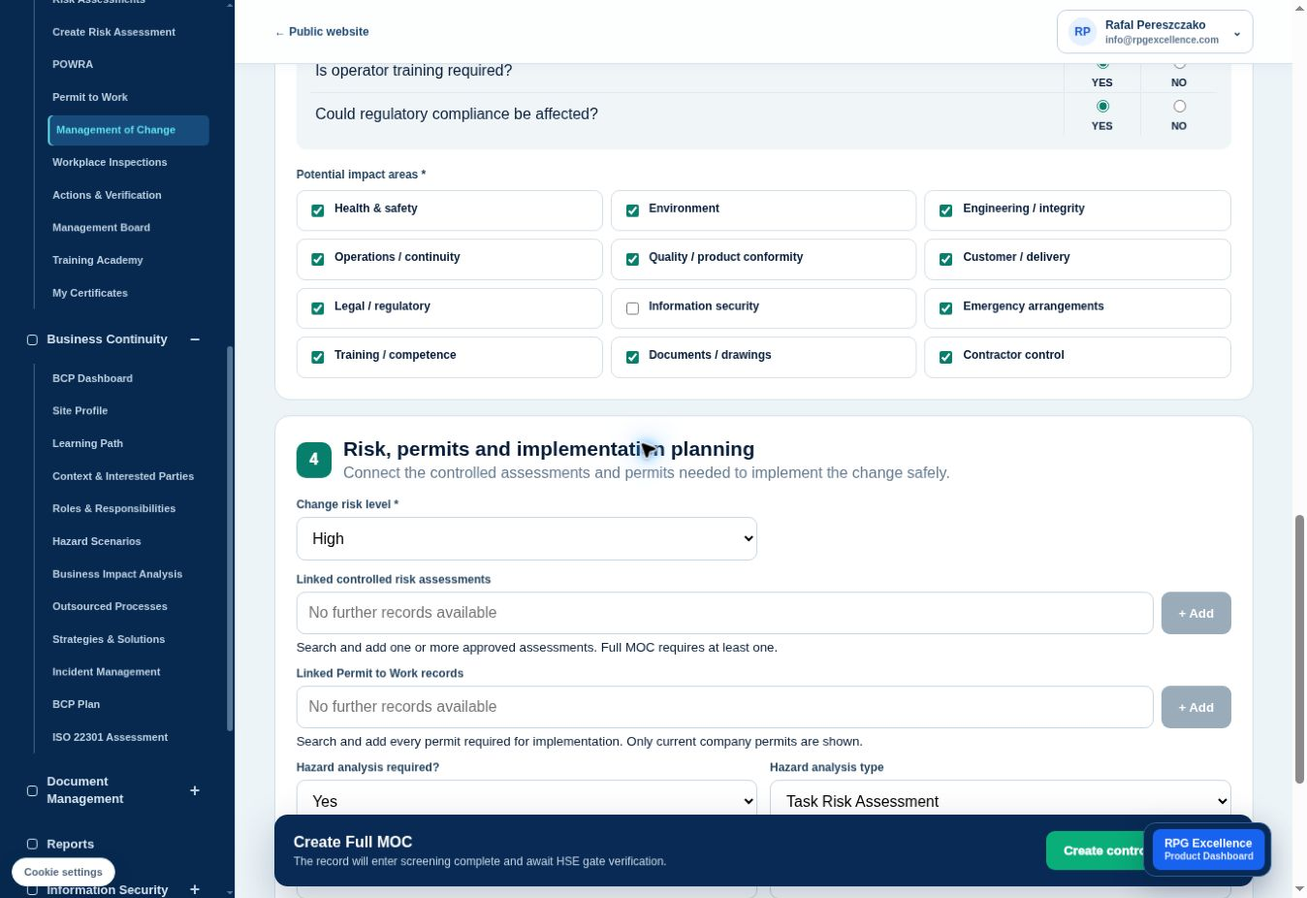
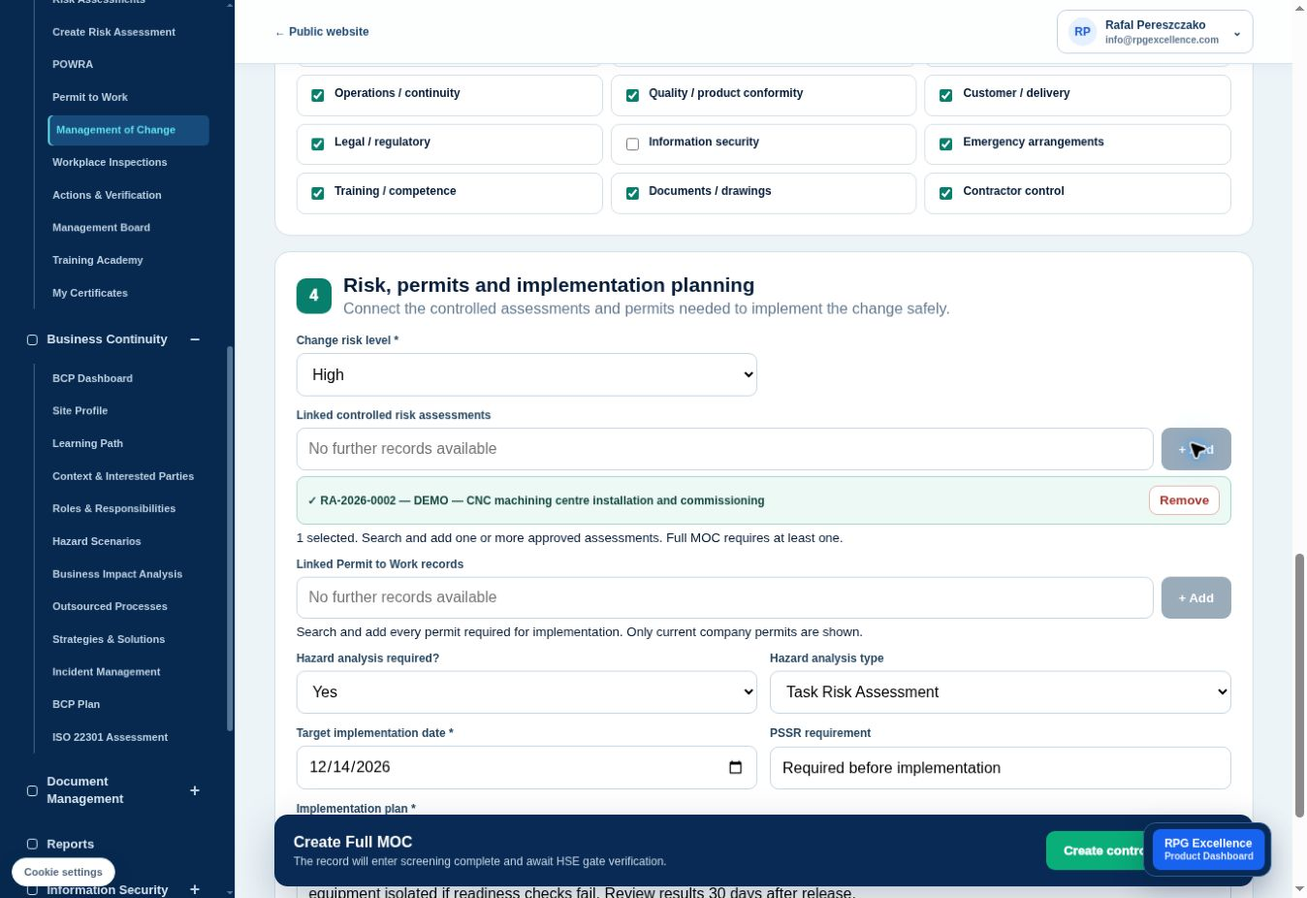
Publish risk assessment workflow with native original and revised PDFs

diff --git a/app/[locale]/how-it-works/risk-assessments/page.js b/app/[locale]/how-it-works/risk-assessments/page.js
@@ -1,0 +1,23 @@
+import Link from 'next/link';
+import {notFound} from 'next/navigation';
+import PageShell from '../../../../components/PageShell';
+import {locales} from '../../../../lib/i18n';
+import RiskSteps from './RiskSteps';
+import styles from './page.module.css';
+export const metadata={title:'How it works — Risk Assessments | RPG Excellence',description:'Explore real RPG risk assessment screens: scope, hazards, controls, actions, independent review, saved revisions and actual platform-generated PDFs.',alternates:{canonical:'/en/how-it-works/risk-assessments'}};
+const asset='/how-it-works/risk-assessments/';
+export default async function RiskAssessmentWalkthrough({params}){
+ const {locale}=await params;if(!locales.includes(locale))notFound();
+ return <PageShell locale={locale}><main className={styles.page}>
+ <header className={styles.hero}><div><Link className={styles.back} href={`/${locale}/how-it-works`}>How it works / Risk Assessments</Link><p className={styles.eyebrow}>PLATFORM INSIGHT · WORKPLACE RISK</p><h1>Understand the exposure.<br/>Keep the response connected.</h1><p className={styles.lead}>Define the work, evaluate significant hazards and assign the controls. Follow the saved record through review, revision and the PDF produced by the platform.</p><aside className={styles.insight}><p className={styles.eyebrow}>THE BUSINESS CONNECTION</p><h2>From a risk entry to accountable work.</h2><p>Bring the people exposed, control decisions and outstanding actions into the same assessment, so the next decision has a traceable basis.</p><div><span><strong>Identify</strong>The work and exposure</span><span><strong>Control</strong>Decisions and ownership</span><span><strong>Retain</strong>Versions and outputs</span></div></aside><div className={styles.actions}><Link className={styles.primary} href="/portal/health-safety/risk-assessment/new">New risk assessment →</Link><Link href="/portal/health-safety/risk-assessment">Open register →</Link></div><p className={styles.small}>Sign-in and eligible company access required.</p></div><div className={styles.product}><div className={styles.productBar}><span>RPG EXCELLENCE / RISK ASSESSMENTS</span><strong>Actual saved record</strong></div><img src={asset+'saved-v2.jpg'} width="1348" height="926" alt="Actual saved version 2 assessment showing the fictional changed delivery route and controlled PDF option" fetchPriority="high"/><div className={styles.productCaption}><p className={styles.eyebrow}>FICTIONAL EXAMPLE / REAL WORKSPACE</p><h2>A CNC installation.<br/>A changed delivery route.</h2><p>See the original saved assessment, the revised context, the review decision and both native RPG PDF exports.</p><a href="#pdf-outputs">Compare the actual PDFs ↓</a></div></div></header>
+ <nav className={styles.jump} aria-label="Risk assessment walkthrough sections"><a href="#starting-point">01 / Starting point</a><a href="#inside-workflow">02 / Saved workflow</a><a href="#pdf-outputs">03 / Original &amp; updated PDFs</a></nav>
+ <section id="starting-point" className={styles.section} aria-labelledby="start-title"><p className={styles.eyebrow}>01 / FIND YOUR WAY IN</p><h2 id="start-title">Start with the work.<br/>Return to its controlled record.</h2><p className={styles.intro}>The register brings status, residual ratings, open actions and review dates together. Its counts here come from fictional demonstration records.</p><div className={styles.startGrid}><figure className={styles.screen}><a href={asset+'register.jpg'} target="_blank" rel="noreferrer" aria-label="Enlarge risk assessment register"><img src={asset+'register.jpg'} width="1348" height="926" alt="Actual register showing approved version 2 and superseded version 1" loading="lazy"/></a><figcaption>Real register after the demonstration revision. Version 2 is Approved; version 1 is Superseded. Open actions remain visible.</figcaption></figure><div className={styles.entrySteps}><article><span>01</span><div><h3>Open the H&amp;S dashboard</h3><p>Use Risk Assessments in the platform navigation.</p><Link href="/portal/health-safety">H&amp;S dashboard →</Link></div></article><article><span>02</span><div><h3>Find a saved assessment</h3><p>Search the register or use its Active, Elevated risk, Reviews due, Approved and Archived views.</p><Link href="/portal/health-safety/risk-assessment">Risk register →</Link></div></article><article><span>03</span><div><h3>Create a separate assessment</h3><p>Define the title, task, site, department, assessor and people affected before recording hazards.</p><Link href="/portal/health-safety/risk-assessment/new">New assessment →</Link></div></article></div></div></section>
+ <section id="inside-workflow" className={styles.section} aria-labelledby="steps-title"><p className={styles.eyebrow}>02 / INSIDE THE WORKSPACE</p><h2 id="steps-title">Save the assessment.<br/>Review the change.</h2><p className={styles.intro}>Select a card to see where the risk decision, review and revision are recorded.</p><RiskSteps/></section>
+ <section id="pdf-outputs" className={styles.section} aria-labelledby="pdf-title"><p className={styles.eyebrow}>03 / ACTUAL RPG-GENERATED OUTPUTS</p><h2 id="pdf-title">The saved version.<br/>The updated PDF.</h2><p className={styles.intro}>These are the original, unmodified files downloaded using Controlled PDF in RPG Excellence. The page previews render their first pages; the downloads contain all three pages.</p><div className={styles.startGrid}>
+ <article><p className={styles.eyebrow}>BEFORE / VERSION 1</p><h3>RA-2026-0001 · Version 1</h3><figure className={styles.screen}><a href={asset+'RA-2026-0001-v1-RPG.pdf'} target="_blank" rel="noreferrer" aria-label="Open original RPG version 1 PDF"><img src={asset+'pdf-v1-preview.png'} width="1600" height="1132" alt="First page of the actual RPG-generated version 1 PDF" loading="lazy"/></a><figcaption>Exported after the demonstration approval and before creating the revision. It shows Approved as the status at export; this record is now Superseded.</figcaption></figure><div className={styles.actions}><a className={styles.primary} href={asset+'RA-2026-0001-v1-RPG.pdf'} download>Download original PDF →</a></div></article>
+ <article><p className={styles.eyebrow}>AFTER / VERSION 2</p><h3>RA-2026-0002 · Version 2</h3><figure className={styles.screen}><a href={asset+'RA-2026-0002-v2-RPG.pdf'} target="_blank" rel="noreferrer" aria-label="Open updated RPG version 2 PDF"><img src={asset+'pdf-v2-preview.png'} width="1600" height="1132" alt="First page of the actual updated RPG version 2 PDF with west loading bay scope and SSOW Rev B" loading="lazy"/></a><figcaption>Exported after saving and approving version 2. The revised task scope, consultation proposal and SSOW Rev B reference appear in the native output.</figcaption></figure><div className={styles.actions}><a className={styles.primary} href={asset+'RA-2026-0002-v2-RPG.pdf'} download>Download updated PDF →</a></div></article></div>
+ <div className={styles.gates}><article><span>THE RECORDED CHANGE</span><h3>A different delivery route</h3><p>Version 2 adds the fictional west loading bay route and temporary segregation, updates the consultation proposal and changes the safe-system reference to Rev B.</p></article><article><span>THE CONTROLLED HANDOVER</span><h3>Save, review, then export</h3><p>The revision starts as a draft. Save the changes, submit for review and record approval before the Controlled PDF becomes available. Updating the record does not rewrite a PDF already downloaded.</p></article><article><span>THE PRACTICAL VALUE</span><h3>Check the issue you are using</h3><p>The PDF includes a reference, version, approval information, risk evaluation and action plan. Compare those details with the current register before issuing or relying on a copy.</p></article></div>
+ <aside className={styles.callout}><strong>Native export, with its current layout.</strong><p>The examples preserve the platform output, including its fixed-size cells. Some long text is shortened in those cells; read the full saved record for the complete entries. An approved status in this fictional example is not evidence that any real controls were implemented.</p></aside></section>
+ <footer className={styles.finish}><p className={styles.eyebrow}>KEEP THE DECISION AND THE EVIDENCE TOGETHER</p><h2>Make the assessment useful<br/>after it has been saved.</h2><div className={styles.actions}><Link className={styles.primary} href="/portal/health-safety/risk-assessment/new">New assessment →</Link><Link href="/portal/health-safety/risk-assessment">Risk register →</Link></div><p className={styles.small}>Real RPG Excellence screens and native PDF exports captured on 18 November 2026. All example work, hazards, ratings, proposed controls and approvals are demonstration data. Three actions remain open; no actual installation, verified control effectiveness or operational release is claimed.</p></footer>
+ </main></PageShell>;
+}

diff --git a/app/[locale]/how-it-works/risk-assessments/page.module.css b/app/[locale]/how-it-works/risk-assessments/page.module.css
@@ -1,0 +1,1 @@
+.page{--navy:#0b274b;--teal:#008575;--muted:#526b85;color:var(--navy);background:#fff}.page a{color:inherit}.hero,.section,.jump,.finish{max-width:1380px;margin:auto;padding:64px 30px}.hero{display:grid;grid-template-columns:1fr 1fr;gap:48px;align-items:center;padding-top:48px;padding-bottom:52px}.back{font-size:13px;color:var(--muted)!important;text-decoration:none}.eyebrow{color:var(--teal);font-size:11px;font-weight:900;letter-spacing:.16em;margin:24px 0 14px}.hero h1{font-size:clamp(42px,4.3vw,66px);line-height:1.04;letter-spacing:-.045em;margin:16px 0 22px;font-weight:900}.lead{font-size:19px;line-height:1.65;color:var(--muted)}.insight{background:linear-gradient(120deg,#eaf7f5,#f4f9ff);padding:22px 24px;border:1px solid #d8e9ed;border-left:3px solid var(--teal);border-radius:12px;margin:26px 0}.insight .eyebrow{margin:0 0 10px}.insight h2{font-size:25px;letter-spacing:-.02em;margin:0 0 12px}.insight p{font-size:15px;line-height:1.65;margin:0;color:var(--muted)}.insight>div{display:grid;grid-template-columns:repeat(3,1fr);gap:12px;margin-top:18px}.insight span{font-size:12px;color:var(--muted);line-height:1.6}.insight strong{display:block;color:var(--navy);font-size:13px}.actions{display:flex;flex-wrap:wrap;align-items:center;gap:20px;margin-top:24px}.actions a,.entrySteps a{font-weight:800;font-size:14px;text-decoration:none}.primary{background:var(--teal);color:#fff!important;padding:14px 20px;border-radius:8px;display:inline-flex}.small{color:var(--muted);font-size:13px;line-height:1.75}.product{border:1px solid #d9e4ec;border-radius:18px;overflow:hidden;box-shadow:0 22px 65px #10375714;background:white}.productBar{display:flex;justify-content:space-between;gap:12px;padding:14px 18px;background:var(--navy);color:white;font-size:10px;letter-spacing:.06em}.productBar strong{color:#9fe4d9}.product>img{width:100%;height:340px;object-fit:cover;object-position:center;display:block}.productCaption{padding:6px 25px 26px}.productCaption h2{font-size:29px;line-height:1.2;letter-spacing:-.03em;margin:12px 0}.productCaption p:not(.eyebrow){color:var(--muted);font-size:15px;line-height:1.7}.productCaption a{color:var(--teal);font-size:14px;font-weight:800}.jump{padding:20px 30px;display:flex;gap:32px;flex-wrap:wrap;border-block:1px solid #e1eaf0}.jump a{font-size:13px;font-weight:800;text-decoration:none}.section{scroll-margin-top:110px;border-bottom:1px solid #e2eaf1}.section>.eyebrow{margin-top:0}.section h2{font-size:clamp(30px,3.4vw,43px);line-height:1.15;letter-spacing:-.035em;margin:12px 0 18px}.intro{max-width:780px;color:var(--muted);line-height:1.8;font-size:17px}.startGrid{display:grid;grid-template-columns:1.2fr 1fr;gap:40px;align-items:center;margin-top:30px}.screen{margin:0;min-width:0;background:#f5f9fc;border:1px solid #d9e5ee;border-radius:12px;overflow:hidden}.screen a{display:block;position:relative}.screen img{display:block;width:100%;height:auto}.screen a>span{position:absolute;bottom:10px;right:10px;background:#0b274be8;color:white;padding:8px 12px;border-radius:6px;font-size:11px;font-weight:800}.screen figcaption{padding:14px 18px;font-size:12px;line-height:1.7;color:var(--muted)}.entrySteps article{display:flex;gap:20px;padding:20px 0;border-bottom:1px solid #e2eaf1}.entrySteps article>span{background:#e8f5f2;color:var(--teal);font-size:14px;font-weight:900;border-radius:50%;width:38px;height:38px;display:grid;place-items:center;flex-shrink:0}.entrySteps h3{font-size:20px;margin:0 0 9px}.entrySteps p{font-size:15px;color:var(--muted);line-height:1.75;margin:0 0 10px}.entrySteps a{color:var(--teal)}.tabs{display:grid;grid-template-columns:repeat(5,1fr);gap:12px;margin:30px 0 18px}.tabs button{background:#f7fafc;border:1px solid #d8e4ee;border-radius:12px;text-align:left;padding:18px;cursor:pointer;color:var(--navy);font:inherit;transition:background .15s,transform .15s}.tabs button[aria-selected=true]{background:var(--navy);border-color:var(--navy);color:white;box-shadow:0 7px 18px #0b274b22}.tabs button:hover{transform:translateY(-2px)}.tabs span{font-size:11px;color:var(--teal);font-weight:900}.tabs button[aria-selected=true] span{color:#91dfce}.tabs strong{display:block;font-size:20px;margin:7px 0}.tabs small{font-size:11px}.panel{display:grid;grid-template-columns:.8fr 1.2fr;gap:34px;background:#f8fbfd;border:1px solid #dde7ef;border-radius:15px;padding:28px;align-items:start}.panel[hidden]{display:none}.panel .eyebrow{margin-top:0}.panel h3{font-size:30px;line-height:1.2;letter-spacing:-.025em;margin:12px 0 20px}.panel p{color:var(--muted);line-height:1.8;font-size:15px}.panel .small{font-size:12px}.panel .screen img{max-height:620px;object-fit:contain;object-position:top;background:#eaf2f7}.value{background:#e9f5f1;border-left:3px solid var(--teal);padding:18px;margin:24px 0;border-radius:0 8px 8px 0}.value strong{font-size:13px}.value p{font-size:14px;margin:8px 0 0}.controls{display:flex;align-items:center;justify-content:space-between;margin-top:20px;gap:10px}.controls button{font:inherit;font-size:13px;font-weight:800;cursor:pointer;padding:12px 18px;background:#fff;color:var(--navy);border:1px solid #cbdbe7;border-radius:8px}.controls span{font-size:12px;color:var(--muted)}.gates{display:grid;grid-template-columns:repeat(3,1fr);gap:20px;margin-top:32px}.gates article{border:1px solid #dce6ed;border-top:3px solid var(--teal);border-radius:12px;padding:25px}.gates article>span{font-size:10px;letter-spacing:.12em;font-weight:900;color:var(--teal)}.gates h3{font-size:23px;line-height:1.3;letter-spacing:-.02em;margin:17px 0}.gates p{color:var(--muted);font-size:15px;line-height:1.75}.gates strong{font-size:12px}.callout{background:#edf5fc;padding:24px;border-radius:12px;margin-top:25px}.callout p{color:var(--muted);line-height:1.8;font-size:15px;margin-bottom:0}.finish{max-width:none;text-align:center;background:var(--navy);color:white;padding:62px 30px}.finish .eyebrow{color:#8fe1d0}.finish h2{font-size:clamp(32px,3.5vw,46px);line-height:1.15;letter-spacing:-.03em}.finish .actions{justify-content:center}.finish .small{color:#bed0e1;max-width:900px;margin:28px auto 0}.page a:focus-visible,.page button:focus-visible{outline:3px solid #2673ff;outline-offset:4px}@media(max-width:1000px){.hero{gap:25px;padding-inline:22px}.hero h1{font-size:44px}.panel{grid-template-columns:1fr}.startGrid{grid-template-columns:1fr 1fr;gap:24px}.tabs button{padding:15px 10px}.gates{gap:12px}.gates article{padding:20px}}@media(max-width:720px){.hero,.section{padding:38px 20px}.hero,.startGrid,.gates{grid-template-columns:1fr}.hero h1{font-size:45px}.product>img{height:300px}.jump{padding:18px 20px;gap:14px 24px}.tabs{display:flex;overflow-x:auto;scroll-snap-type:x mandatory;padding:4px 0 12px}.tabs button{min-width:145px;scroll-snap-align:start}.panel{padding:20px;gap:18px}.panel h3{font-size:27px}.panel .screen img{max-height:580px}.gates{gap:18px}.controls button{padding:12px}.finish{padding:44px 20px}}

diff --git a/app/[locale]/how-it-works/risk-assessments/RiskSteps.js b/app/[locale]/how-it-works/risk-assessments/RiskSteps.js
@@ -1,0 +1,27 @@
+"use client";
+import { useRef, useState } from "react";
+import styles from "./page.module.css";
+
+const steps = [{"id": "scope", "label": "Define", "file": "saved-v1.jpg", "title": "Keep the assessment connected to the work.", "text": "Define the site, department, work area, assessor and people who may be harmed. Record task boundaries, consultation and supporting control references.", "value": "Make the work and the people affected clear before the risk decisions are read in isolation.", "detail": "The example covers delivery, installation, commissioning and trial machining. It is labelled DEMO and does not authorise real work.", "alt": "Actual saved assessment showing scope, ownership and location"}, {"id": "hazards", "label": "Evaluate", "file": "hazards.jpg", "title": "Connect hazards, controls and accountable actions.", "text": "For each significant hazard, record exposure and credible harm, existing controls, initial likelihood and severity, additional controls and the expected residual position. Assign action ownership and a target date.", "value": "Keep proposed risk reduction beside the work needed to achieve it.", "detail": "Three demonstration hazards cover lifting, electrical connection and trial machining. Expected residual ratings depend on proposed controls; the three actions remain open.", "alt": "Actual saved risk assessment with hazard and action counts"}, {"id": "approval", "label": "Review", "file": "approval-v2.jpg", "title": "Record the independent review decision.", "text": "Submit the completed assessment for review. Select an active company approver other than the assessor, record the review arrangements and retain the decision comments.", "value": "Distinguish completing assessment fields from a recorded approval decision.", "detail": "The nominated reviewer is far per. Approval comments expressly identify this as a fictional demonstration, with no actual control implementation or operational release.", "alt": "Actual saved version 2 approval record and review arrangements"}, {"id": "revision", "label": "Revise", "file": "revision-edit.jpg", "title": "When the task changes, create and save a revision.", "text": "From an approved assessment, choose Create new revision. Update the draft in the RPG form and save it, then submit it for review again.", "value": "Keep the changed basis visible rather than silently overwriting an approved version.", "detail": "This example changes the delivery route to the west loading bay and updates the consultation proposal and SSOW reference. The platform assigned reference RA-2026-0002 to version 2.", "alt": "Actual RPG edit form for the demonstration version 2"}, {"id": "saved", "label": "Export", "file": "saved-v2.jpg", "title": "Open the saved record and generate its PDF.", "text": "After revision approval, open Controlled PDF from the saved record. The platform generates the PDF from that version, including the revised scope and approval details.", "value": "Provide a portable output whose reference and version can be checked against the register.", "detail": "Both unmodified RPG exports are available below. Version 1 was downloaded before revision; version 2 was downloaded after its own approval. Existing downloaded files do not automatically change.", "alt": "Actual saved approved version 2 showing Controlled PDF and revised scope"}];
+
+export default function RiskSteps() {
+  const [active, setActive] = useState(0);
+  const refs = useRef([]);
+  const step = steps[active];
+  function select(index, focus = false) {
+    const next = (index + steps.length) % steps.length;
+    setActive(next);
+    if (focus) refs.current[next]?.focus();
+  }
+  function handleKey(event, index) {
+    const next = { ArrowRight: index + 1, ArrowLeft: index - 1, Home: 0, End: steps.length - 1 }[event.key];
+    if (next === undefined) return;
+    event.preventDefault();
+    select(next, true);
+  }
+  return <>
+    <div className={styles.tabs} role="tablist" aria-label="Explore the Risk Assessment workflow">{steps.map((item, index) => <button key={item.id} ref={node => { refs.current[index] = node; }} type="button" role="tab" id={`risk-tab-${item.id}`} aria-selected={active === index} aria-controls={`risk-panel-${item.id}`} tabIndex={active === index ? 0 : -1} onClick={() => select(index)} onKeyDown={event => handleKey(event, index)}><span>0{index + 1}</span><strong>{item.label}</strong><small>View platform screen</small></button>)}</div>
+    {steps.map((item, index) => <section key={item.id} role="tabpanel" id={`risk-panel-${item.id}`} aria-labelledby={`risk-tab-${item.id}`} hidden={active !== index} className={styles.panel}><div><p className={styles.eyebrow}>INSIDE THE WORKSPACE / 0{index + 1}</p><h3>{item.title}</h3><p>{item.text}</p><aside className={styles.value}><strong>Why it matters</strong><p>{item.value}</p></aside><p className={styles.small}>{item.detail}</p></div><figure className={styles.screen}><a href={`/how-it-works/risk-assessments/${item.file}`} target="_blank" rel="noreferrer" aria-label={`Enlarge ${item.label} screenshot`}><img src={`/how-it-works/risk-assessments/${item.file}`} alt={item.alt} width="1348" height={item.id === "review" ? "1628" : "928"} loading="lazy"/><span>View full screen ↗</span></a><figcaption>Actual RPG Excellence interface · fictional demonstration entries.</figcaption></figure></section>)}
+    <div className={styles.controls}><button type="button" onClick={() => select(active - 1)} aria-label="Previous workflow screen">← Previous</button><span aria-live="polite">0{active + 1} / 0{steps.length} · {step.label}</span><button type="button" onClick={() => select(active + 1)} aria-label="Next workflow screen">Next →</button></div>
+  </>;
+}

diff --git a/app/[locale]/how-it-works/management-of-change/ChangeSteps.js b/app/[locale]/how-it-works/management-of-change/ChangeSteps.js
@@ -5,9 +5,9 @@ import styles from "./page.module.css";
 const steps = [
   { id: "request", label: "Define", file: "moc-request.jpg", title: "Give the proposal a clear boundary.", text: "Describe the current and proposed state, choose the site and department, and identify the requestor and accountable owner. Record whether the change is temporary or permanent and identify the affected equipment.", value: "Agree what is changing and who coordinates the response before resources are committed.", detail: "Example: DEMO-CNC-002, a new CNC machining centre in Machining Cell 2. The description connects the production purpose with installation, document and training needs.", alt: "Actual new-change form filled with the fictional CNC installation scope and ownership" },
   { id: "screen", label: "Screen", file: "moc-screening.jpg", title: "Let the potential impact shape the review.", text: "Answer the screening questions against the proposed change. Any Yes answer requires the Full MOC pathway. Questions for the selected change type add detail, with impact areas covering the affected functions.", value: "Surface cross-functional consequences before the change is treated as a routine equipment purchase.", detail: "The CNC example uses Yes answers for potential safety, integrity, performance, quality, delivery and compliance effects. All-No screening follows MOC Lite; proportionate approval and close-out still apply.", alt: "Actual screening section requiring Full MOC and change-type questions for new equipment" },
-  { id: "plan", label: "Connect", file: "moc-planning.jpg", title: "Bring the supporting controls into the request.", text: "Set the change risk level, link approved controlled risk assessments and relevant Permit to Work records, and record hazard analysis and the implementation plan. Full MOC requires at least one approved assessment.", value: "Keep the proposal connected to the assessed work, responsibilities, preparation and contingency arrangements.", detail: "This screenshot is an unsubmitted example. The assessment link is empty because RA-2026-0001 has not yet received independent approval. A provisional High change rating is demonstration data, not an assessed operational conclusion.", alt: "Actual MOC planning section with a provisional High rating, assessment and permit links, and task risk analysis" },
+  { id: "plan", label: "Connect", file: "moc-planning.jpg", title: "Bring the supporting controls into the request.", text: "Set the change risk level, link approved controlled risk assessments and relevant Permit to Work records, and record hazard analysis and the implementation plan. Full MOC requires at least one approved assessment.", value: "Keep the proposal connected to the assessed work, responsibilities, preparation and contingency arrangements.", detail: "This filled request links approved demonstration assessment RA-2026-0002 Version 2. The change was then saved as MOC-2026-299EF4 and awaits HSE gate verification. The High rating is demonstration data, not an assessed operational conclusion.", alt: "Actual MOC planning section with a provisional High rating, assessment and permit links, and task risk analysis" },
   { id: "assess", label: "Assess", file: "risk-hazards.jpg", title: "Follow the risk into its own controlled record.", text: "The example assessment records delivery and positioning, electrical connection and trial-machining hazards. Each has an initial rating, proposed controls, an expected residual rating and an assigned action with a target date.", value: "Make the source of the risk decision and the outstanding work easier to trace.", detail: "RA-2026-0001 contains three illustrative hazards and three open actions. Expected residual ratings depend on the proposed controls; no implementation or verification is asserted.", alt: "Actual demonstration risk assessment showing three hazards, initial and residual ratings, and assigned actions" },
-  { id: "review", label: "Review", file: "risk-review.jpg", title: "Keep assessment and approval distinct.", text: "Submit the assessment for review, then use a competent approver other than the assessor. The review page shows readiness, outstanding actions and the controlled review arrangements.", value: "Keep an independent decision visible rather than treating a completed form as approval.", detail: "This example is In Review. No eligible independent approver was available when captured, so it has not been approved or linked to a saved Full MOC. The walkthrough does not bypass that requirement.", alt: "Actual assessment review screen showing In Review status, readiness checks and an independent approver requirement" },
+  { id: "review", label: "Review", file: "moc-saved.jpg", title: "Keep assessment and approval distinct.", text: "Submit the assessment for review, then use a competent approver other than the assessor. The review page shows readiness, outstanding actions and the controlled review arrangements.", value: "Keep an independent decision visible rather than treating a completed form as approval.", detail: "After the nominated reviewer approved the fictional assessment, the Full MOC was saved with its controlled link. MOC-2026-299EF4 remains at the HSE gate; functional approvals, PSSR and implementation have not been completed.", alt: "Actual saved Full MOC showing its HSE gate status and linked approved assessment" },
 ];
 
 export default function ChangeSteps() {

diff --git a/app/[locale]/how-it-works/management-of-change/page.js b/app/[locale]/how-it-works/management-of-change/page.js
@@ -40,6 +40,6 @@ export default async function ManagementOfChangeWalkthrough({ params }) {
       <article><span>03 / VERIFY</span><h3>Review the result before closure</h3><p>Record post-implementation observations, action verification decisions and closure comments. For the CNC example, compare cycle time, first-pass acceptance, downtime and operator feedback with the baseline.</p><strong>Business value</strong><p>Distinguish completing the change from demonstrating that it delivered the intended result.</p></article>
     </div><aside className={styles.callout}><strong>When circumstances change, revisit the basis.</strong><p>A different machine, location, contractor method or operating condition may change the assessment. Revisit the scope, controls and applicable approvals before proceeding; a saved request is not an authorisation to start work.</p></aside></section>
 
-    <footer className={styles.finish}><p className={styles.eyebrow}>START WITH THE CHANGE IN FRONT OF YOU</p><h2>Keep the proposal, risk<br/>and response connected.</h2><div className={styles.actions}><Link className={styles.primary} href="/portal/health-safety/moc/new">New change →</Link><Link href="/portal/health-safety/moc">MOC register →</Link><Link href="/portal/health-safety">H&amp;S dashboard →</Link></div><p className={styles.small}>Actual RPG Excellence screens captured on 18 November 2026. All example entries are fictional demonstration data. The linked assessment example is in review; no approval, installation, verified improvement or operational release is claimed. This walkthrough is platform insight, not a completed risk assessment.</p></footer>
+    <footer className={styles.finish}><p className={styles.eyebrow}>START WITH THE CHANGE IN FRONT OF YOU</p><h2>Keep the proposal, risk<br/>and response connected.</h2><div className={styles.actions}><Link className={styles.primary} href="/portal/health-safety/moc/new">New change →</Link><Link href="/portal/health-safety/moc">MOC register →</Link><Link href="/portal/health-safety">H&amp;S dashboard →</Link></div><p className={styles.small}>Actual RPG Excellence screens captured on 18 November 2026. All example entries are fictional demonstration data. The fictional assessment received a demonstration approval, and MOC-2026-299EF4 was saved with RA-2026-0002 Version 2 linked. The change awaits HSE gate verification; no implementation, verified improvement or operational release is claimed. This walkthrough is platform insight, not a completed risk assessment.</p></footer>
   </main></PageShell>;
 }

diff --git a/lib/howItWorks.js b/lib/howItWorks.js
@@ -7,7 +7,7 @@ export const HOW_IT_WORKS_GROUPS = [
     ["CAPA & 8D", "/capa-8d"],
   ] },
   { title: "Safe operations", caption: "At the point of work", links: [
-    ["Risk assessments", "/hs-hub#hs-journey-title"],
+    ["Risk assessments", "/how-it-works/risk-assessments"],
     ["Incidents & near misses", "/how-it-works#hazard-reporting"],
     ["Workplace inspections", "/hs-hub#hs-journey-title"],
     ["POWRA", "/how-it-works/powra"],
